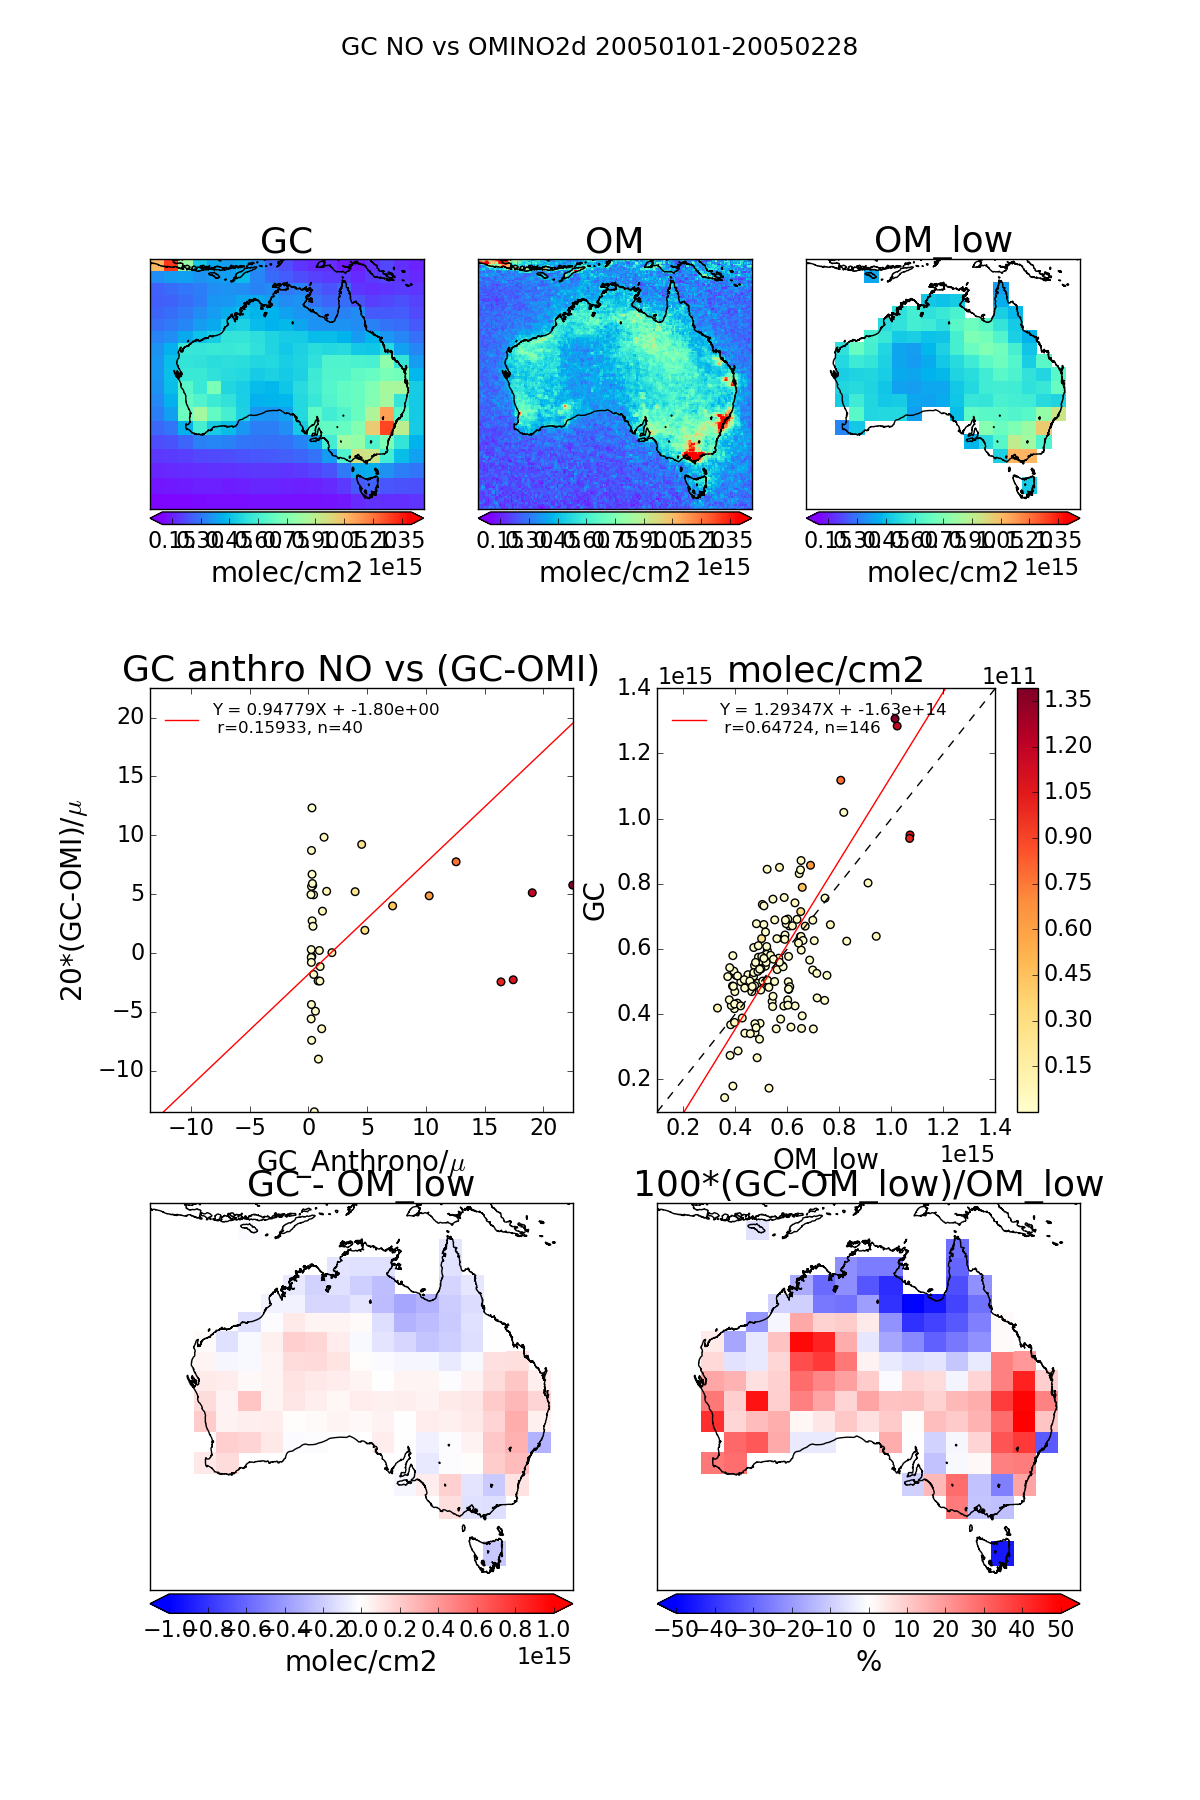
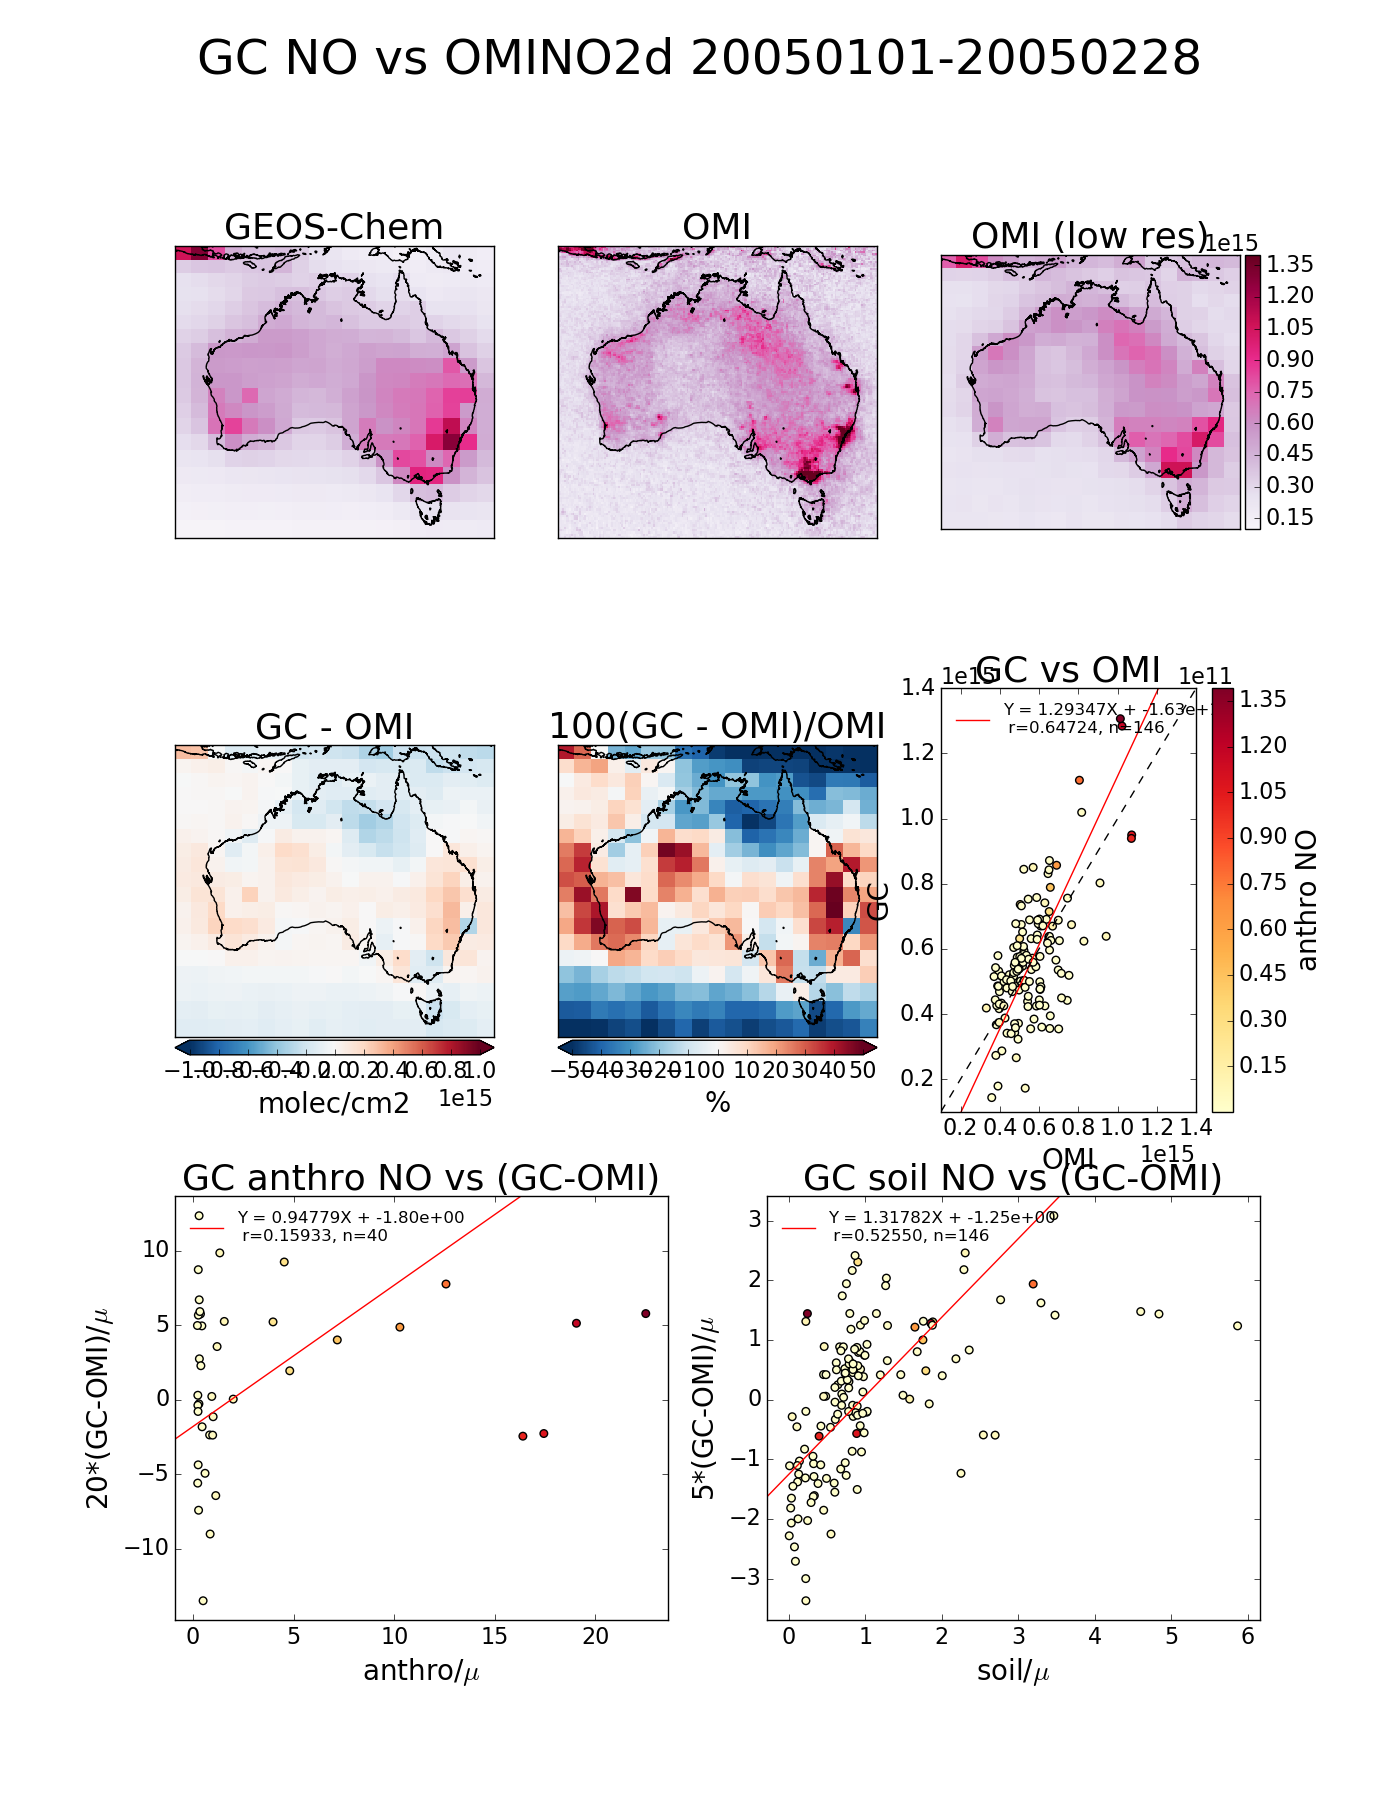
Fixed soil and anthro nox comparison plots

diff --git a/GC_tests.py b/GC_tests.py
@@ -21,6 +21,7 @@ import matplotlib.dates as mdates
 import matplotlib.cm as cm
 import seaborn # Plotting density function
 from mpl_toolkits.axes_grid1 import make_axes_locatable
+import warnings # To catch annoying warnings
 
 
 # local imports:
@@ -217,7 +218,8 @@ def HCHO_vs_temp(d0=datetime(2005,1,1),d1=None,region=SEA,regionlabel='SEA',regi
 
 def GC_vs_OMNO2d(d0=datetime(2005,1,1), d1=None,
                  region=pp.__AUSREGION__, regionlabel='AUS',
-                 drop_low_anthro=False, color_by_anthro=True):
+                 drop_low_anthro=False, color_by_anthro=True,
+                 map_cmap='PuRd' ,reg_cmap='YlOrRd',dmap_cmap='RdBu_r'):
     '''
         Plot GC trop NO2, OMNO2d, and lower res OMNO2d averaged over d0-d1
         plot abs and rel difference, and regression between GC and OMNO2d
@@ -255,9 +257,11 @@ def GC_vs_OMNO2d(d0=datetime(2005,1,1), d1=None,
         arr[arr < 1]=np.NaN 
     
     # average over time:
-    for arr in [anthrono, soilno ,GC_tropno2, OM_tropno2]:
-        arr = np.nanmean(arr,axis=0)
-
+    to_average = [anthrono, soilno ,GC_tropno2, OM_tropno2]
+    
+    with warnings.catch_warnings():
+        warnings.simplefilter("ignore", category=RuntimeWarning)
+        [anthrono, soilno ,GC_tropno2, OM_tropno2] = [ np.nanmean(arr,axis=0) for arr in to_average ]
     OM_tropno2_low=util.regrid_to_lower(OM_tropno2,OM_lats,OM_lons,GC.lats_e,GC.lons_e)
     assert OM_tropno2_low.shape == GC_tropno2.shape, 'Reduced OMI Grid should match GC'
     
@@ -273,53 +277,60 @@ def GC_vs_OMNO2d(d0=datetime(2005,1,1), d1=None,
     regression_dot_size=30
     
     # set up axes for 3,2,2 columns (over 3 rows)
-    plt.figure(figsize=(14,18))
+    fig = plt.figure(figsize=(14,18))
     axes=[ plt.subplot(331), plt.subplot(332), plt.subplot(333),
-           plt.subplot(334), plt.subplot(334), plt.subplot(336),
+           plt.subplot(334), plt.subplot(335), plt.subplot(336),
                    plt.subplot(325), plt.subplot(326) ]
     
     # First plot, maps
     plt.sca(axes[0])
     pp.createmap(GC_tropno2,GC_lats,GC_lons, 
                  title='GEOS-Chem', colorbar=False,
-                 linear=linear, vmin=vmin,vmax=vmax,)
+                 linear=linear, vmin=vmin,vmax=vmax,
+                 cmapname=map_cmap, region=region)
     plt.sca(axes[1])
     pp.createmap(OM_tropno2, OM_lats, OM_lons, 
                  title='OMI', colorbar=False,
-                 linear=linear, vmin=vmin,vmax=vmax,)
+                 linear=linear, vmin=vmin,vmax=vmax,
+                 cmapname=map_cmap, region=region)
     plt.sca(axes[2])
     m,cs,cb= pp.createmap(OM_tropno2_low, GC_lats, GC_lons, 
                  title='OMI (low res)', colorbar=False,
-                 linear=linear, vmin=vmin,vmax=vmax,)
+                 linear=linear, vmin=vmin,vmax=vmax,
+                 cmapname=map_cmap, region=region)
     
     # Add colorbar to the right:
+    #cax = fig.add_axes([0.9,0.375,0.04,0.25])
     divider = make_axes_locatable(axes[2])
     cax = divider.append_axes('right', size='5%', pad=0.05)
-    m.colorbar(cs,cax=cax, orientation='vertical')
+    fig.colorbar(cs,cax=cax, orientation='vertical')
     
     # Plot differences and corellation
     # first abs diff
     plt.sca(axes[3])
     pp.createmap(GC_tropno2-OM_tropno2_low, GC_lats, GC_lons, 
                  title='GC - OMI', colorbar=True, clabel='molec/cm2',
-                 linear=True, vmin=amin, vmax=amax)
+                 linear=True, vmin=amin, vmax=amax,
+                 cmapname=dmap_cmap, region=region)
     
     # then rel diff
     plt.sca(axes[4])
     pp.createmap(100*(GC_tropno2-OM_tropno2_low)/OM_tropno2_low, GC_lats, GC_lons, 
                  title='100(GC - OMI)/OMI', colorbar=True, clabel='%',
-                 linear=True, vmin=rmin, vmax=rmax)
+                 linear=True, vmin=rmin, vmax=rmax,
+                 cmapname=dmap_cmap, region=region)
     
     
     # now we must pull out the land data for corellations:
-    lati,loni=util.lat_lon_range(GC_lats,GC_lons,region)
-    lats,lons=GC_lats[lati],GC_lons[loni]
+    
+    subsets=util.lat_lon_subset(GC_lats,GC_lons,region,data=[GC_tropno2,OM_tropno2_low, anthrono, soilno])
+    lati,loni=subsets['lati'],subsets['loni']
+    lats,lons=subsets['lats'],subsets['lons'] # GC_lats[lati],GC_lons[loni]
+    [GC_tropno2,OM_tropno2_low, anthrono, soilno]=subsets['data']
+    
     # Lets mask the oceans at this point:
     oceanmask=util.get_mask(GC_tropno2, lats=lats,lons=lons,maskocean=True)
-    
     for arr in [GC_tropno2,OM_tropno2_low, anthrono, soilno]:
-        arr=arr[lati,:]
-        arr=arr[:,loni]
         arr[oceanmask] = np.NaN
     
     
@@ -337,10 +348,11 @@ def GC_vs_OMNO2d(d0=datetime(2005,1,1), d1=None,
     plt.sca(axes[5])
     colours = [soilno,anthrono][color_by_anthro]
     clabel = ['soil NO','anthro NO'][color_by_anthro]
-    pp.plot_regression(OM_tropno2_low.flatten(),GC_tropno2.flatten(),lims=[vmin,vmax],
+    pp.plot_regression(OM_tropno2_low.flatten(),GC_tropno2.flatten(),
+                       limsx=[vmin,vmax], limsy=[vmin,vmax],
                        logscale=False, legendfont=12, size=regression_dot_size,
                        showcbar=True, colours=colours.flatten(), clabel=clabel,
-                       cmap='YlOrRd')
+                       cmap=reg_cmap)
     plt.title('GC vs OMI')
     plt.ylabel('GC')
     plt.xlabel('OMI')
@@ -349,7 +361,7 @@ def GC_vs_OMNO2d(d0=datetime(2005,1,1), d1=None,
     plt.sca(axes[6])
     pp.plot_regression(anthrono_norm.flatten(), bias_norm.flatten(),
                        logscale=False, legendfont=12, diag=False,
-                       cmap='YlOrRd', showcbar=False, 
+                       cmap=reg_cmap, showcbar=False, 
                        colours=colours.flatten(),
                        size=regression_dot_size)
 
@@ -359,15 +371,15 @@ def GC_vs_OMNO2d(d0=datetime(2005,1,1), d1=None,
     
     #SOIL vs bias
     plt.sca(axes[7])
-    pp.plot_regression(soilno_norm.flatten(), bias_norm.flatten(),
+    pp.plot_regression(soilno_norm.flatten(), bias_norm.flatten()/4.0,
                        logscale=False, legendfont=12, diag=False,
-                       cmap='YlOrRd', showcbar=False, 
+                       cmap=reg_cmap, showcbar=False, 
                        colours=colours.flatten(),
                        size=regression_dot_size)
 
     plt.title('GC soil NO vs (GC-OMI)')
     plt.xlabel('soil/$\mu$')#GC.attrs['ANTHSRCE_NO']['units'])
-    plt.ylabel('20*(GC-OMI)/$\mu$')
+    plt.ylabel('5*(GC-OMI)/$\mu$')
     
     
     pname='Figs/GC/GC_vs_OMNO2_%s_%s.png'%(regionlabel,dstr)
@@ -377,13 +389,6 @@ def GC_vs_OMNO2d(d0=datetime(2005,1,1), d1=None,
     plt.close()
     
 
-#def createmap(data, lats, lons, make_edges=False, GC_shift=True,
-#              vmin=None, vmax=None, latlon=True,
-#              region=__GLOBALREGION__, aus=False, linear=False,
-#              clabel=None, colorbar=True, cbarfmt=None, cbarxtickrot=None,
-#              cbarorient='bottom',
-#              pname=None,title=None,suptitle=None, smoothed=False,
-#              cmapname=None, fillcontinents=None):
 
 def old_GC_vs_OMNO2d(d0=datetime(2005,1,1),d1=None,
                  region=pp.__AUSREGION__, regionlabel='AUS',
@@ -411,7 +416,9 @@ def old_GC_vs_OMNO2d(d0=datetime(2005,1,1),d1=None,
     # Read omno2d
     data,attrs=fio.read_omno2d(day0=d0,dayN=d1)
     # Average over time axis
-    OM_tropno2 = np.nanmean(data['tropno2'],axis=0)
+    with warnings.catch_warnings():
+        warnings.simplefilter("ignore", category=RuntimeWarning)
+        OM_tropno2 = np.nanmean(data['tropno2'],axis=0)
     OM_lats=data['lats']
     OM_lons=data['lons']
 
@@ -424,8 +431,10 @@ def old_GC_vs_OMNO2d(d0=datetime(2005,1,1),d1=None,
     GC_tavg=GC_class.GC_tavg(d0,d1,keys=['ANTHSRCE_NO',])
     GC_anthrono=GC_tavg.ANTHSRCE_NO
     GC_anthrono[GC_anthrono < 1]=np.NaN
-    GC_tropno2=np.nanmean(GC_tropno2,axis=0) # Average over time
-    GC_anthrono=np.nanmean(GC_anthrono,axis=0)
+    with warnings.catch_warnings():
+        warnings.simplefilter("ignore", category=RuntimeWarning)
+        GC_tropno2=np.nanmean(GC_tropno2,axis=0) # Average over time
+        GC_anthrono=np.nanmean(GC_anthrono,axis=0)
     GC_lats,GC_lons=GC.lats,GC.lons
 
     # set up axes for 3,2,2 columns (over 3 rows)
@@ -511,7 +520,8 @@ def old_GC_vs_OMNO2d(d0=datetime(2005,1,1),d1=None,
     #
     plt.sca(ax5)
 
-    pp.plot_regression(OM_low.flatten(),GC_tropno2.flatten(),lims=[vmin,vmax],
+    pp.plot_regression(OM_low.flatten(),GC_tropno2.flatten(),
+                       limsx=[vmin,vmax], limsy=[vmin,vmax], 
                        logscale=False, legendfont=12, size=regression_dot_size,
                        showcbar=True, colours=GC_anthrono.flatten(),
                        cmap='YlOrRd')
@@ -1072,11 +1082,17 @@ if __name__=='__main__':
     d1=datetime(2005,1,5)
     region=pp.__AUSREGION__
     label='AUS'
+    # Test the function with 3 days of data
+    #GC_vs_OMNO2d(d0=d0, d1=d1,
+    #             region=region, regionlabel=label,
+    #             drop_low_anthro=True)
     
+    #
     for dates in [summer05,winter05]:
         GC_vs_OMNO2d(d0=dates[0], d1=dates[1],
                      region=region, regionlabel=label,
                      drop_low_anthro=True)    
+    
     #    for region, label in zip(subs,labels):
     #        HCHO_vs_temp(d0=dates[0],d1=dates[1],
     #                     region=region,regionlabel=label)

diff --git a/utilities/plotting.py b/utilities/plotting.py
@@ -393,7 +393,7 @@ def plot_rec(bmap, inlimits, color=None, linewidth=1):
     x,y=bmap(xs,ys)
     bmap.plot(x, y, latlon=False, color=color, linewidth=linewidth)
 
-def plot_regression(X,Y, lims=None, logscale=True,
+def plot_regression(X,Y, limsx=None, limsy=None, logscale=True,
                      legend=True, legendfont=22,
                      colour='k',linecolour='r', diag=True, oceanmask=None,
                      colours=None,size=None, cmap='rainbow', showcbar=True,
@@ -406,9 +406,13 @@ def plot_regression(X,Y, lims=None, logscale=True,
     X=np.array(X)
     Y=np.array(Y)
     nans=np.isnan(X) + np.isnan(Y)
-    if lims is None:
-        lims=[np.nanmin([np.nanmin(X),np.nanmin(Y)]),np.nanmax([np.nanmax(X),np.nanmax(Y)])]
-    lims0=np.array(lims); lims=np.array(lims)
+    if limsx is None:
+        spread = np.nanmax(X) - np.nanmin(X)
+        limsx  = np.array([np.nanmin(X)-0.05*spread, np.nanmax(X)+0.05*spread])
+    if limsy is None:
+        spread = np.nanmax(Y) - np.nanmin(Y)
+        limsy  = np.array([np.nanmin(Y)-0.05*spread, np.nanmax(Y)+0.05*spread])
+    limsx0=np.copy(limsx);
 
     if oceanmask is None:
         if colours is None:
@@ -421,7 +425,7 @@ def plot_regression(X,Y, lims=None, logscale=True,
                 cb=plt.colorbar(sc)
                 cb.set_label(clabel)
         m,b,r,CI1,CI2=RMA(X[~nans], Y[~nans]) # get regression
-        plt.plot(lims, m*np.array(lims)+b,color=linecolour,
+        plt.plot(limsx, m*np.array(limsx)+b,color=linecolour,
                  label='Y = %.5fX + %.2e\n r=%.5f, n=%d'%(m,b,r,np.sum(~nans)))
     else:
         omask=~(nans+~oceanmask ) # true where not nan or land
@@ -434,15 +438,15 @@ def plot_regression(X,Y, lims=None, logscale=True,
         lm,lx0,lr,lci1,lci2 = RMA(X[lmask], Y[lmask])
         m,x0,r,ci1,ci2 = RMA(X[omask], Y[omask])
         #move limit for lobf if log scale goes to negative
-        if m*lims[0] + x0 < 0 and logscale:
-            lims[0] = -x0/m + 100
-        if (lm*lims[0] + lx0 < 0) and logscale:
-            lims[0] = -lx0/lm + 100
+        if m*limsx[0] + x0 < 0 and logscale:
+            limsx[0] = -x0/m + 100
+        if (lm*limsx[0] + lx0 < 0) and logscale:
+            limsx[0] = -lx0/lm + 100
 
         #plot lobf and label
-        plt.plot( lims, lm*lims+lx0, color='k', linewidth=2,
+        plt.plot( limsx, lm*limsx+lx0, color='k', linewidth=2,
                 label='Land: Y = %.5fX + %.2e; r=%.5f'%(lm,lx0,lr))
-        plt.plot( lims, m*lims+x0, color='blue',
+        plt.plot( limsx, m*limsx+x0, color='blue',
                 label='Ocean: Y = %.5fX + %.2e, r=%.5f'%(m,x0,r))
 
         print('Land: Y = %.5fX + %.2e; r=%.5f'%(lm,lx0,lr))
@@ -455,9 +459,9 @@ def plot_regression(X,Y, lims=None, logscale=True,
         plt.legend(loc=2,scatterpoints=1, fontsize=legendfont,frameon=False)
     if logscale:
         plt.yscale('log'); plt.xscale('log')
-    plt.ylim(lims0); plt.xlim(lims0)
+    plt.ylim(limsy); plt.xlim(limsx0)
     if diag:
-        plt.plot(lims0,lims0,'--',color='k',label='1-1') # plot the 1-1 line for comparison
+        plt.plot(limsx0,limsx0,'--',color='k',label='1-1') # plot the 1-1 line for comparison
 
 def plot_time_series(datetimes,values,ylabel=None,xlabel=None, pname=None, legend=False, title=None, xtickrot=30, dfmt='%Y%m', xticks=None, **pltargs):
     ''' plot values over datetimes '''

diff --git a/utilities/utilities.py b/utilities/utilities.py
@@ -231,7 +231,7 @@ def lat_lon_subset(lats,lons,region, data=[]):
     lats_e=edges_from_mids(lats_m)
     lons_e=edges_from_mids(lons_m)
     out={'lats':lats_m,'lons':lons_m,'lats_e':lats_e,'lons_e':lons_e,
-         'data':[], }
+         'data':[], 'lati':lati, 'loni':loni, }
     for arr in data:
         # if lats is second dimension:
         if (len(lats) != len(lons)) and (len(lats)==np.shape(arr)[1]):
